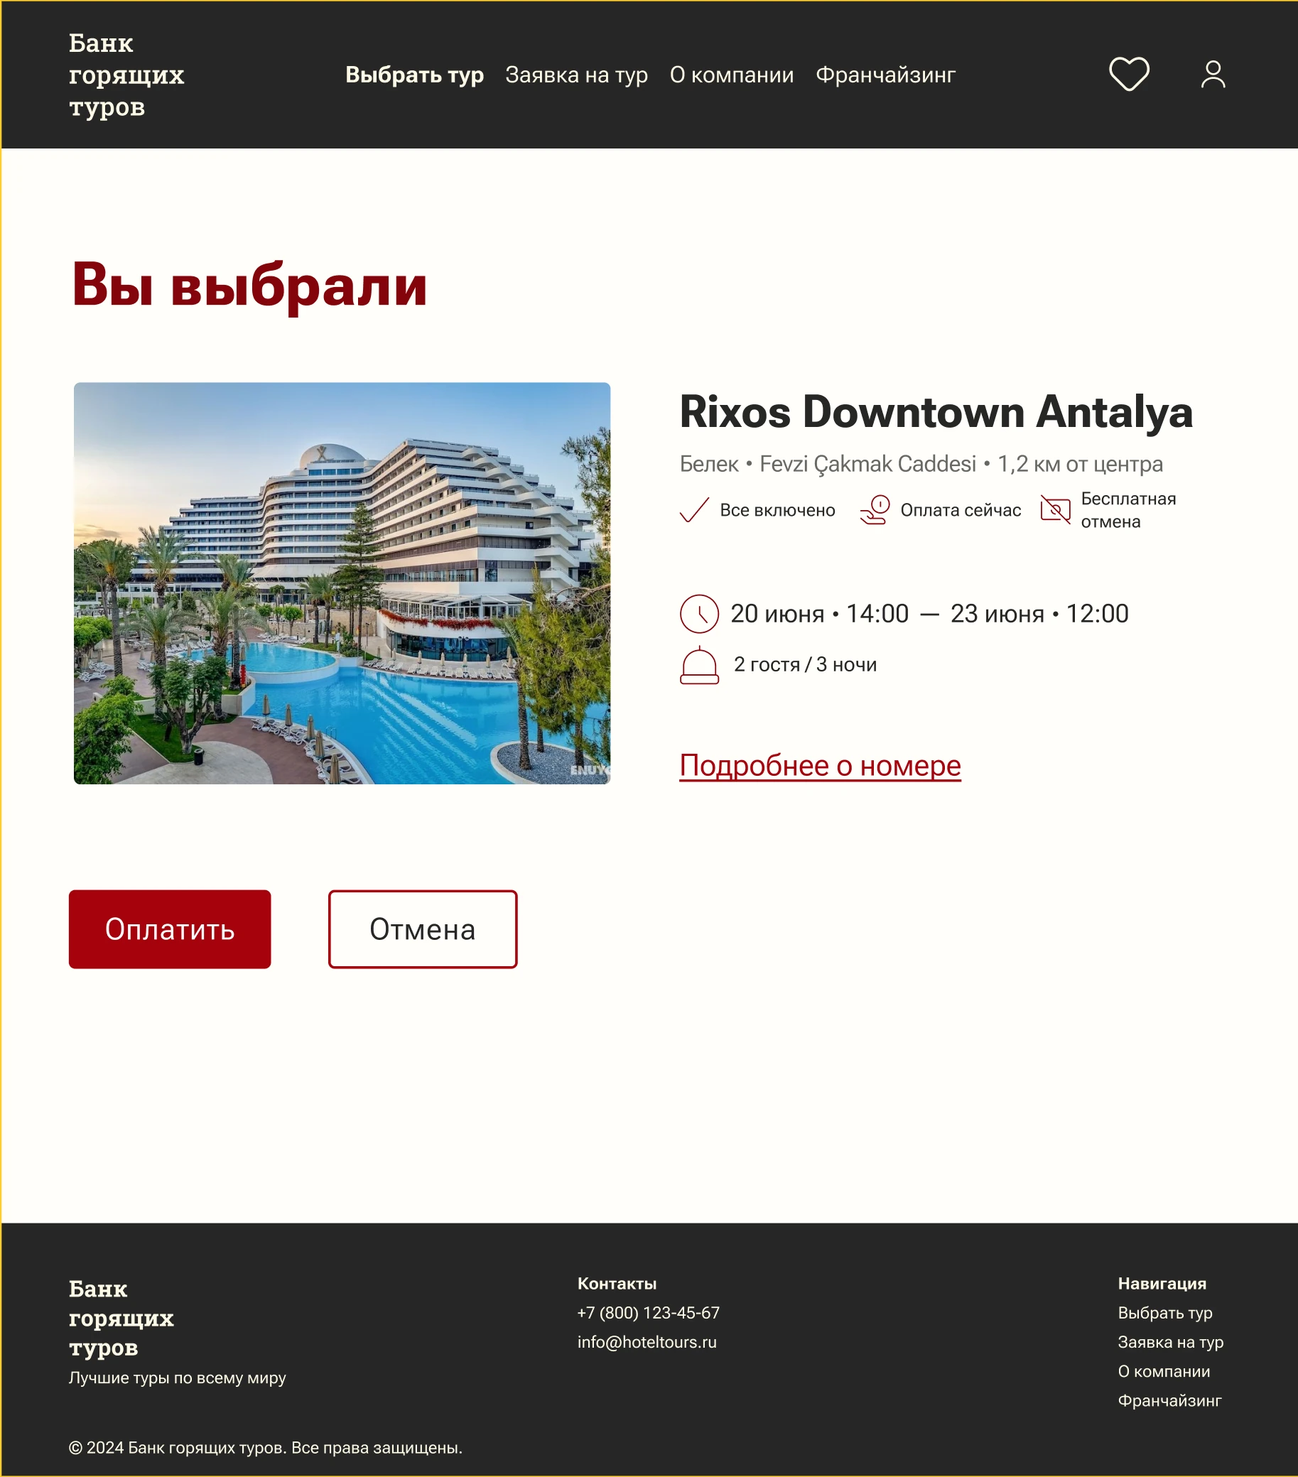
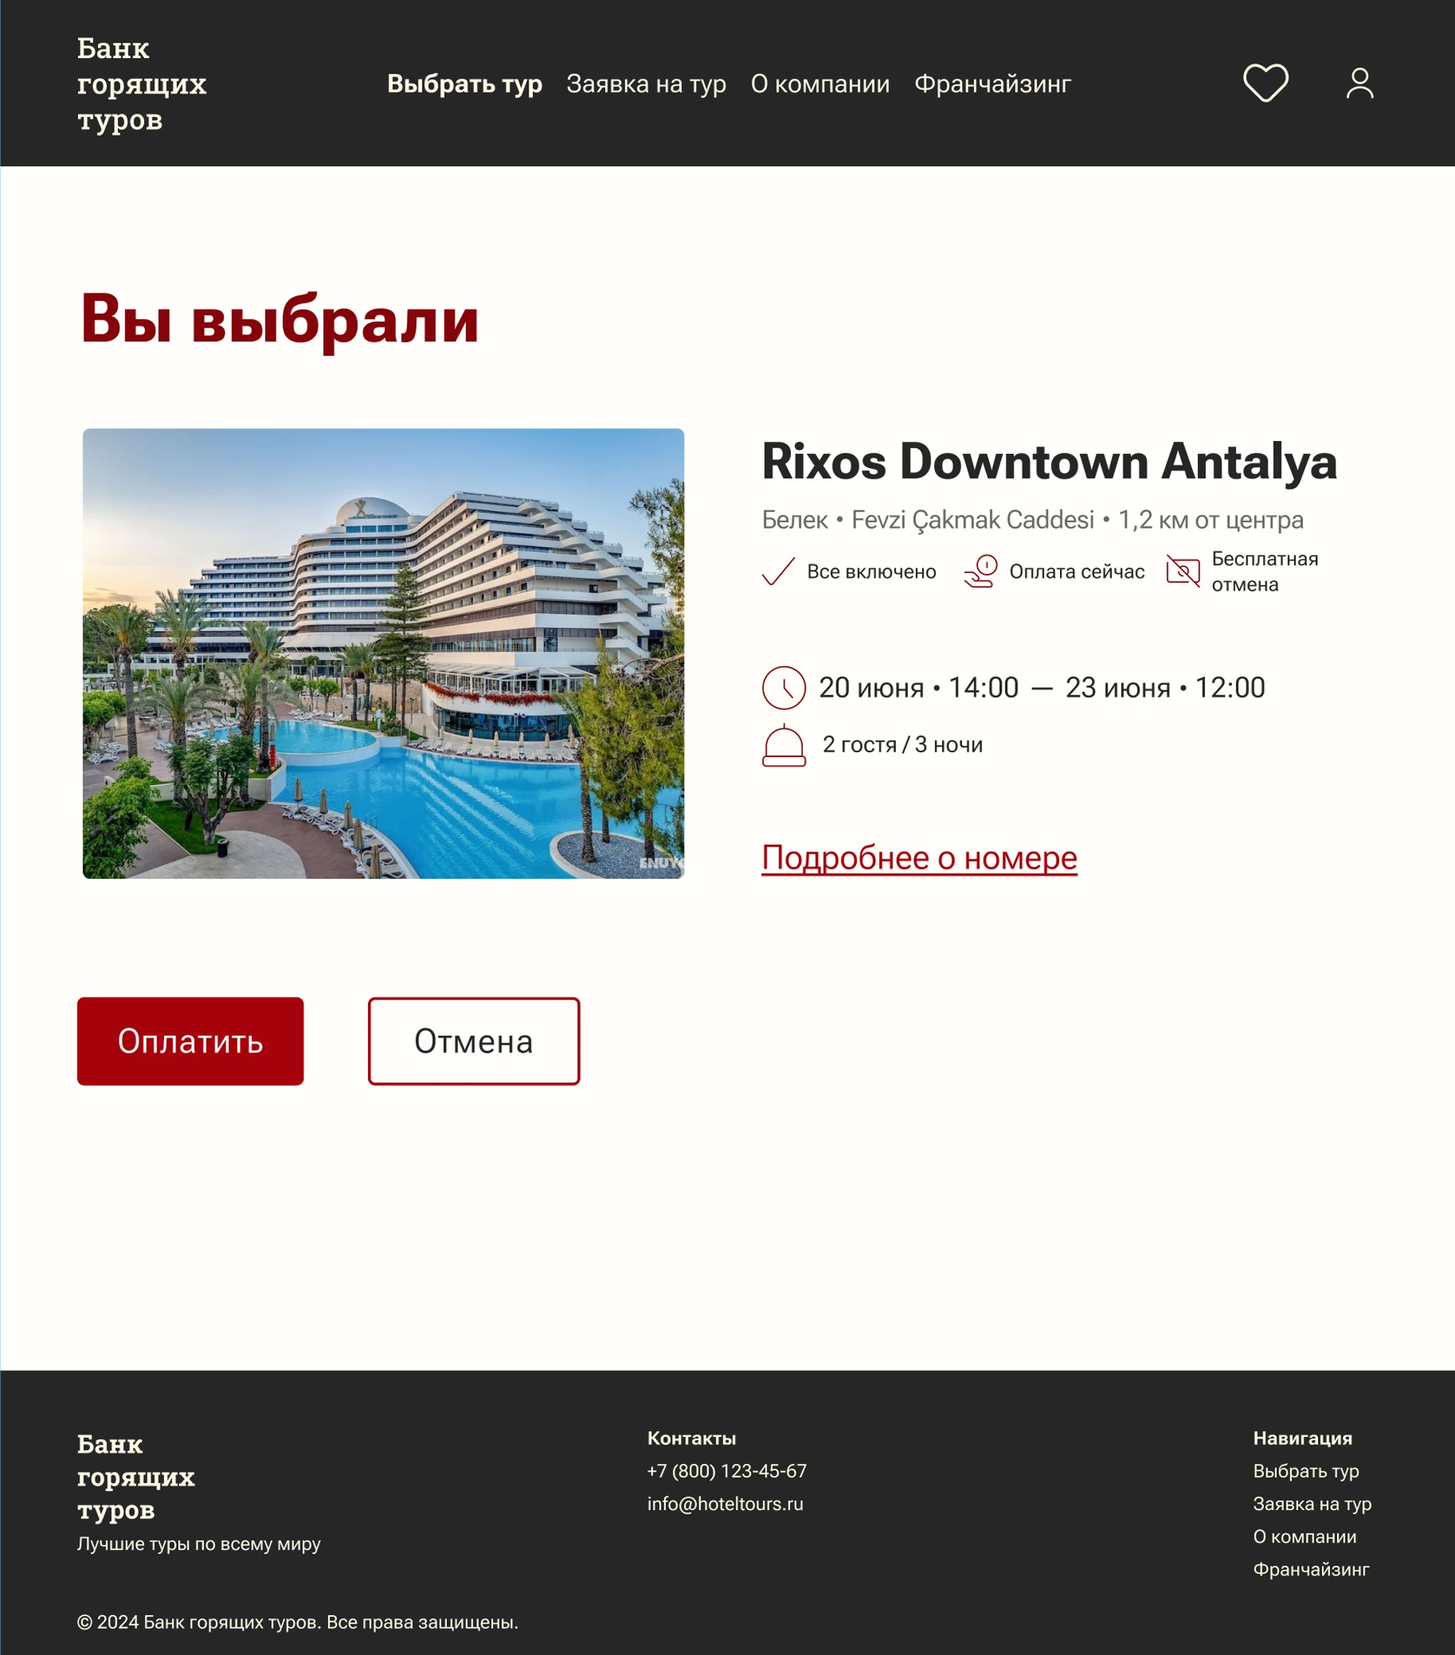
Маршруты и туры по актуальным макетам из Figma
- Лайтовые маршруты: экраны и блок «Решения» по обновлённому макету
  (маршруты, преимущества, атмосфера, команда, контакты), новая палитра;
  карточка маршрута в концепции без увеличения
- Банк горящих туров: все экраны пересняты из актуальной Figma,
  обзор пяти шагов собран из текущих фреймов
- Главная: карточка туров из двух скриншотов — главная и страница отеля

diff --git a/case-routes.html b/case-routes.html
@@ -12,7 +12,7 @@
   <link rel="stylesheet" href="css/case.css">
   <style>
     body.case {
-      --brand: #1E3227;
+      --brand: #2F4F3E;
       --brand-ink: #F6F3EE;
       --brand-accent: #E08A5C;
       --accent: #C96A3D;
@@ -115,13 +115,13 @@
       <p class="p" style="max-width:56ch;margin-top:1rem">До визуала собрала референс карточки маршрута и выстроила вайрфрейм главной страницы: 10 блоков в порядке пути пользователя.</p>
       <div class="bento">
         <div class="tile s5 concept-card" style="background:var(--soft)">
-          <div class="concept-media zoom"><img src="img/routes-ref2.webp" width="286" height="560" alt="Референс карточки маршрута с отзывом" loading="lazy"></div>
+          <div class="concept-media"><img src="img/routes-ref2.webp" width="286" height="560" alt="Референс карточки маршрута с отзывом" loading="lazy"></div>
           <p class="tile-t">Карточка маршрута</p>
           <p class="p">Фото, километры, подъём, дни, сложность и одна кнопка. Отзыв рядом с маршрутом — социальное доказательство там, где принимают решение.</p>
         </div>
         <div class="tile s7" style="background:var(--soft)">
           <div class="wire-shot shot zoom" style="--ratio:3 / 4"><img src="img/routes-wireframe.svg" alt="Вайрфрейм главной страницы «Лайтовые маршруты»" loading="lazy"></div>
-          <p class="tile-t">Вайрфрейм главной</p>
+          <p class="tile-t">Вайрфрейм — первая версия структуры</p>
           <p class="p">Шапка → первый экран → почему нас выбирают → преимущества → цифры → маршруты → отзывы → галерея → контакты → футер. Нажмите «+», чтобы открыть схему целиком.</p>
         </div>
       </div>
@@ -136,11 +136,11 @@
         <div>
           <span class="num-tag">01 · Первый экран</span>
           <h3 class="h-m">«Путешествие, которое вам по силам»</h3>
-          <p class="p">Заголовок сразу снимает главное возражение, подзаголовок уточняет: без тяжёлых рюкзаков и специальной подготовки.</p>
+          <p class="p">Заголовок сразу снимает главное возражение, подзаголовок уточняет: без тяжёлых рюкзаков и специальной подготовки. Кнопка «Посмотреть маршруты» ведёт к выбору, а не требует сразу бронировать.</p>
           <ul class="bullets">
             <li>Обычные люди на лёгкой тропе, а не альпинисты на вершине</li>
             <li>«Лето 2026 · Набор открыт» — мягкая срочность</li>
-            <li>Одна акцентная кнопка — «Забронировать»</li>
+            <li>Тёмно-зелёная шапка с якорями: Команда, Маршруты, Отзывы</li>
           </ul>
         </div>
         <div class="split-media zoom"><img src="img/routes-hero.webp" alt="Первый экран" loading="lazy"></div>
@@ -148,32 +148,50 @@
 
       <div class="split rev">
         <div>
-          <span class="num-tag">02 · Преимущества</span>
-          <h3 class="h-m">Страхи превращены в преимущества</h3>
-          <p class="p">Три фото-карточки передают атмосферу, шесть иконок — конкретику. Цифры 10+ лет, 500+ участников и 30+ маршрутов работают на доверие.</p>
-        </div>
-        <div class="split-media zoom"><img src="img/routes-features.webp" alt="Блок «Почему нас выбирают»" loading="lazy"></div>
-      </div>
-
-      <div class="split">
-        <div>
-          <span class="num-tag">03 · Каталог</span>
+          <span class="num-tag">02 · Маршруты</span>
           <h3 class="h-m">Маршрут понятен за 3 секунды</h3>
-          <p class="p">Название, место, километры, дни, даты, цена и сложность — всё, что нужно для решения, в одной карточке.</p>
+          <p class="p">Каталог стоит сразу после первого экрана — это главное, ради чего приходят на сайт. В карточке: фото, место, километры, дни, даты, рейтинг и сложность.</p>
           <ul class="bullets">
-            <li>Метка «Семейный» для второго сегмента</li>
-            <li>Сложность — иконками, без чтения</li>
-            <li>Рейтинг в углу — социальное доказательство</li>
+            <li>Метки формата: «Семейный», «Индивидуальный», «Групповой»</li>
+            <li>Сложность иконками: лёгкий, средний, сложный</li>
+            <li>При наведении карточка выделяется зелёной обводкой</li>
           </ul>
         </div>
         <div class="split-media zoom"><img src="img/routes-cards.webp" alt="Карточки маршрутов" loading="lazy"></div>
       </div>
 
+      <div class="split">
+        <div>
+          <span class="num-tag">03 · Преимущества</span>
+          <h3 class="h-m">Страхи превращены в преимущества</h3>
+          <p class="p">Шесть карточек с иконками отвечают на вопросы новичка: маленькие группы, повар на маршруте, внимательный гид, помощь с палаткой, вечерние развлечения и снаряжение.</p>
+        </div>
+        <div class="split-media zoom"><img src="img/routes-features.webp" alt="Блок «Преимущества»" loading="lazy"></div>
+      </div>
+
       <div class="split rev">
         <div>
-          <span class="num-tag">04 · Конверсия</span>
-          <h3 class="h-m">Мягкий выход для сомневающихся</h3>
-          <p class="p">Не все готовы бронировать сразу. Для них — форма из трёх полей: «Напишите нам — расскажем про маршруты и ответим на все вопросы».</p>
+          <span class="num-tag">04 · Атмосфера</span>
+          <h3 class="h-m">Как это будет на самом деле</h3>
+          <p class="p">Галерея показывает «изнанку» похода: завтрак на природе, лагерь, рассвет из палатки. Ниже — три зелёные карточки, которые ещё раз отвечают на страхи: «Если устали — остановимся. Поход — это не соревнование».</p>
+        </div>
+        <div class="split-media zoom"><img src="img/routes-gallery.webp" alt="Галерея и карточки о темпе похода" loading="lazy"></div>
+      </div>
+
+      <div class="split">
+        <div>
+          <span class="num-tag">05 · Доверие</span>
+          <h3 class="h-m">Команда и цифры</h3>
+          <p class="p">Новичку важно знать, кто будет рядом. Блок «Команда» знакомит с гидами и поваром, а цифры 10+ лет, 500+ участников и 30+ маршрутов подтверждают опыт.</p>
+        </div>
+        <div class="split-media zoom"><img src="img/routes-team.webp" alt="Команда и цифры" loading="lazy"></div>
+      </div>
+
+      <div class="split rev">
+        <div>
+          <span class="num-tag">06 · Конверсия</span>
+          <h3 class="h-m">Отзывы и мягкий выход для сомневающихся</h3>
+          <p class="p">Отзывы с фото, маршрутом и датой, а для тех, кто ещё не готов бронировать, — форма из трёх полей: «Напишите нам — расскажем про маршруты и ответим на все вопросы».</p>
         </div>
         <div class="split-media zoom"><img src="img/routes-contact.webp" alt="Форма обратной связи" loading="lazy"></div>
       </div>
@@ -184,10 +202,10 @@
       <p class="eyebrow">06 — Визуальный язык</p>
       <h2 class="h-l">Тёплая палитра горного похода</h2>
       <div class="palette-strips" style="--n:5">
-        <div class="strip"><div class="strip-color" style="background:#F6F3EE;border-bottom:1px solid #eee"></div><div class="strip-info"><p class="strip-name">Утренний туман</p><p class="strip-hex">#F6F3EE</p><p class="strip-role">Фон</p></div></div>
-        <div class="strip"><div class="strip-color" style="background:#D8C3A5"></div><div class="strip-info"><p class="strip-name">Песок тропы</p><p class="strip-hex">#D8C3A5</p><p class="strip-role">Акцент фона</p></div></div>
-        <div class="strip"><div class="strip-color" style="background:#C96A3D"></div><div class="strip-info"><p class="strip-name">Костёр</p><p class="strip-hex">#C96A3D</p><p class="strip-role">Главные кнопки</p></div></div>
-        <div class="strip"><div class="strip-color" style="background:#1E3227"></div><div class="strip-info"><p class="strip-name">Хвойный лес</p><p class="strip-hex">#1E3227</p><p class="strip-role">Заголовки, футер</p></div></div>
+        <div class="strip"><div class="strip-color" style="background:#F0ECE6"></div><div class="strip-info"><p class="strip-name">Утренний туман</p><p class="strip-hex">#F0ECE6</p><p class="strip-role">Фон</p></div></div>
+        <div class="strip"><div class="strip-color" style="background:#D8C3A5"></div><div class="strip-info"><p class="strip-name">Песок тропы</p><p class="strip-hex">#D8C3A5</p><p class="strip-role">Иконки преимуществ</p></div></div>
+        <div class="strip"><div class="strip-color" style="background:#C96A3D"></div><div class="strip-info"><p class="strip-name">Костёр</p><p class="strip-hex">#C96A3D</p><p class="strip-role">Рейтинг, сложность, акценты</p></div></div>
+        <div class="strip"><div class="strip-color" style="background:#2F4F3E"></div><div class="strip-info"><p class="strip-name">Хвойный лес</p><p class="strip-hex">#2F4F3E</p><p class="strip-role">Шапка, кнопки, футер</p></div></div>
         <div class="strip"><div class="strip-color" style="background:#2A2A2A"></div><div class="strip-info"><p class="strip-name">Скала</p><p class="strip-hex">#2A2A2A</p><p class="strip-role">Основной текст</p></div></div>
       </div>
       <div class="type-grid">
@@ -212,8 +230,8 @@
       <h2 class="h-l" style="max-width:18ch">Сайт, который ведёт от сомнения к брони</h2>
       <div class="stats" style="--n:3">
         <div class="stat"><b>7</b><span>смысловых блоков, выстроенных по пути пользователя: эмоция → страхи → выбор → доверие → действие</span></div>
-        <div class="stat"><b>6</b><span>возражений новичков закрыты в блоке преимуществ</span></div>
-        <div class="stat"><b>2</b><span>точки конверсии: бронирование маршрута и форма вопроса</span></div>
+        <div class="stat"><b>6</b><span>возражений новичков закрыты в блоке «Преимущества»</span></div>
+        <div class="stat"><b>2</b><span>точки конверсии: переход к маршруту и форма вопроса</span></div>
       </div>
     </section>
 

diff --git a/index.html b/index.html
@@ -141,9 +141,10 @@
         <p class="work-task"><b>Задача:</b> убедить новичков, что горный поход — это им по силам. Сайт снимает страхи «не дойду, тяжело, нет снаряжения» и подводит к бронированию.</p>
       </a>
       <a href="case-tours.html" class="work reveal">
-        <div class="work-media">
+        <div class="work-media work-duo">
           <span class="work-index">02</span>
-          <img src="img/tours-desktop.webp" alt="Экраны сайта «Банк горящих туров»" loading="lazy">
+          <img src="img/tours-home.webp" alt="Главная страница «Банк горящих туров»" loading="lazy">
+          <img src="img/tours-hotel.webp" alt="Страница отеля «Банк горящих туров»" loading="lazy">
         </div>
         <div class="work-meta"><span>Редизайн · Сайт + приложение</span><span>2026</span></div>
         <h3 class="work-title">Банк горящих туров <span class="arrow">→</span></h3>

diff --git a/case-tours.html b/case-tours.html
@@ -148,8 +148,8 @@
         <div class="scope-step"><span class="scope-pill"><em>4</em>Отель и отзывы</span><p><b>Здесь хорошо?</b><br>Условия, номера, оценки</p></div>
         <div class="scope-step"><span class="scope-pill"><em>5</em>Оплата</span><p><b>Всё верно?</b><br>Резюме бронирования</p></div>
       </div>
-      <div style="margin-top:3rem;display:flex;justify-content:flex-end"><span class="badge"><b>1440</b>px frame</span></div>
-      <div class="browser rounded" style="margin-top:1rem">
+      <div style="margin-top:3rem;display:flex;justify-content:flex-end"><span class="badge"><b>1024</b>px frame</span></div>
+      <div class="browser rounded zoom" style="margin-top:1rem">
         <div class="browser-bar"><i></i><i></i><i></i><span class="browser-url">bankturov.ru</span></div>
         <img src="img/tours-desktop.webp" alt="Экраны сценария на десктопе" loading="lazy">
       </div>

diff --git a/css/style.css b/css/style.css
@@ -1070,3 +1070,25 @@ footer {
 @media (max-width: 768px) {
   .results--flow { grid-template-columns: 1fr 1fr; }
 }
+
+/* карточка кейса из двух скриншотов */
+.work-duo {
+  display: grid;
+  grid-template-columns: 1.35fr 1fr;
+  gap: 4%;
+  padding: 6% 6% 0;
+  background: #F2ECE2;
+  align-items: start;
+}
+
+.work-duo img {
+  width: 100%;
+  height: auto;
+  aspect-ratio: 3 / 4;
+  object-fit: cover;
+  object-position: top center;
+  border-radius: 8px 8px 0 0;
+  box-shadow: 0 20px 40px -20px rgba(0, 0, 0, 0.6);
+}
+
+.work-duo img + img { margin-top: 12%; }
